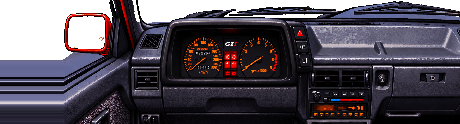
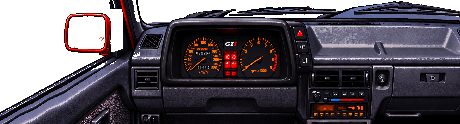
Gaúcho GTI: forro da porta esquerda continua na diagonal em telas largas (sem esticar) e janela da porta limpa (v0.24.6)
Claude-Session: https://claude.ai/code/session_01MLD9VR7gkmY4w6a9beZcp6

Changed region(s): [[0.0, 0.4113, 0.2435, 1.0], [0.213, 0.0726, 0.2739, 0.4113], [0.2739, 0.4355, 0.3043, 0.4597]]

diff --git a/tools/ref/gol_cockpit2.py b/tools/ref/gol_cockpit2.py
@@ -80,6 +80,14 @@ def main():
     cx = lab3[340, 95]
     if cx:
         sky |= lab3 == cx
+    # janela da porta (embaixo do retrovisor até a soleira): é tudo paisagem, menos a carcaça vermelha
+    jan = (xx < 250) & (yy > 250) & (yy < 475 - 0.27 * xx) & ((lum > 95) | (yy < 462 - 0.27 * xx)) & ~cv2.dilate(red.astype(np.uint8), np.ones((3, 3), np.uint8)).astype(bool)
+    mbox = np.zeros((H, W), bool)
+    mbox[262:410, 0:200] = True
+    sky |= jan & ~(mbox & ~sky & (lum < 60))  # o miolo escuro do retrovisor fica
+    # faixa lilás (o vidro da porta visto de lado) acima da borracha da soleira: também é janela
+    lil = (xx < 320) & (yy > 360) & (yy < 505 - 0.27 * xx) & (rgb[..., 2] > rgb[..., 0] + 4) & (lum > 88) & ~red
+    sky |= lil
     inv = (~sky & win).astype(np.uint8)
     n2, lab2, st2, _ = cv2.connectedComponentsWithStats(inv, 4)
     for i in range(1, n2):
@@ -90,6 +98,23 @@ def main():
     xr = np.clip(xs, 0, W - 1)
     d_rgb = sample(nw, xr, ys)
     d_al = ~sample(sky, xr, ys)
+    # à esquerda da arte (telas largas) a porta continua: cada ponto segue a diagonal do forro (as
+    # linhas da soleira, do apoio de braço e do friso vermelho sobem para a direita, 0,48 px por px)
+    # até cair numa faixa de 60 px da borda da arte, espelhada a cada volta (sem emenda e sem
+    # esticar); o retrovisor não se repete (o vidro da janela fica transparente)
+    SL, BAND = 0.48, 60.0
+    left = np.nonzero(xs < 0)[0]
+    if len(left):
+        X = xs[left][None, :]
+        Y = ys[:, None]
+        t = np.mod(-X, 2 * BAND)
+        sx = np.where(t < BAND, t, 2 * BAND - t)
+        sy = Y - SL * (sx - X)  # mesma diagonal: y sobe 0,48 a cada px para a direita
+        xi = np.clip(sx.astype(int), 0, W - 1)
+        yi = np.clip(sy.astype(int), 0, H - 1)
+        mir = (xi < 200) & (yi > 255) & (yi < 415)
+        d_rgb[:, left] = nw[yi, xi]
+        d_al[:, left] = ~sky[yi, xi] & ~mir & (sy < H) & ~(sky[yi, xi])  # acima da soleira: janela
     Image.fromarray(np.dstack([d_rgb, d_al.astype(np.uint8) * 255]), 'RGBA').save(os.path.join(out, 'br-golgti-dash.png'))
     Image.fromarray((red_mask(d_rgb, d_al) * 255).astype(np.uint8), 'L').save(os.path.join(out, 'br-golgti-dash-mask.png'))
     xs, ys = grid(y0d - EXT * PXH, EXT)
